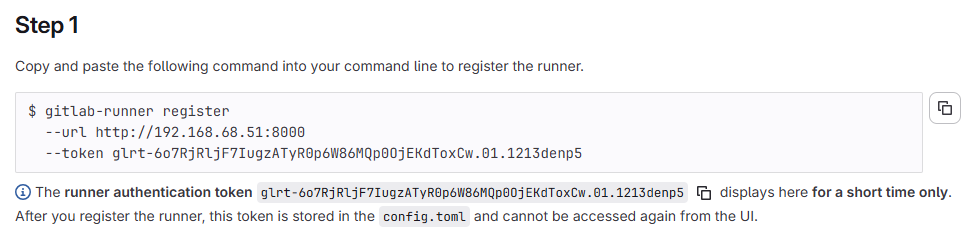
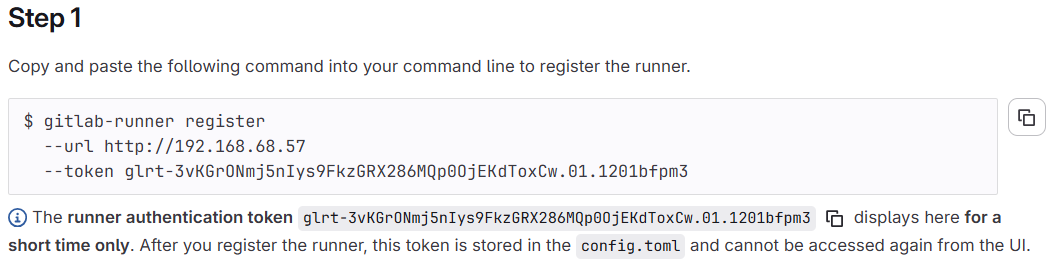
update gitlab version and notebook ip

diff --git a/README.md b/README.md
@@ -4,13 +4,13 @@ Madatory to set up external_url for GitLab runner to register and git clone usin
 
     environment:
       GITLAB_OMNIBUS_CONFIG: |
-        external_url 'http://192.168.68.51:8080'
+        external_url 'http://192.168.68.57:8080'
 
 ---
 
 # GitLab runner config (config.toml)
 
-http://192.168.68.51:8080/admin/runners
+http://192.168.68.57:8080/admin/runners
 
 ![create instance runner](create-runner-instance.png)
 
@@ -51,7 +51,7 @@ Select Add new key.
 ## Verify SSH connection
 
 ```shell
-ssh -Tv git@192.168.68.51
+ssh -Tv git@192.168.68.57
 ```
 
 ![verify connection](verify-connection.png)
